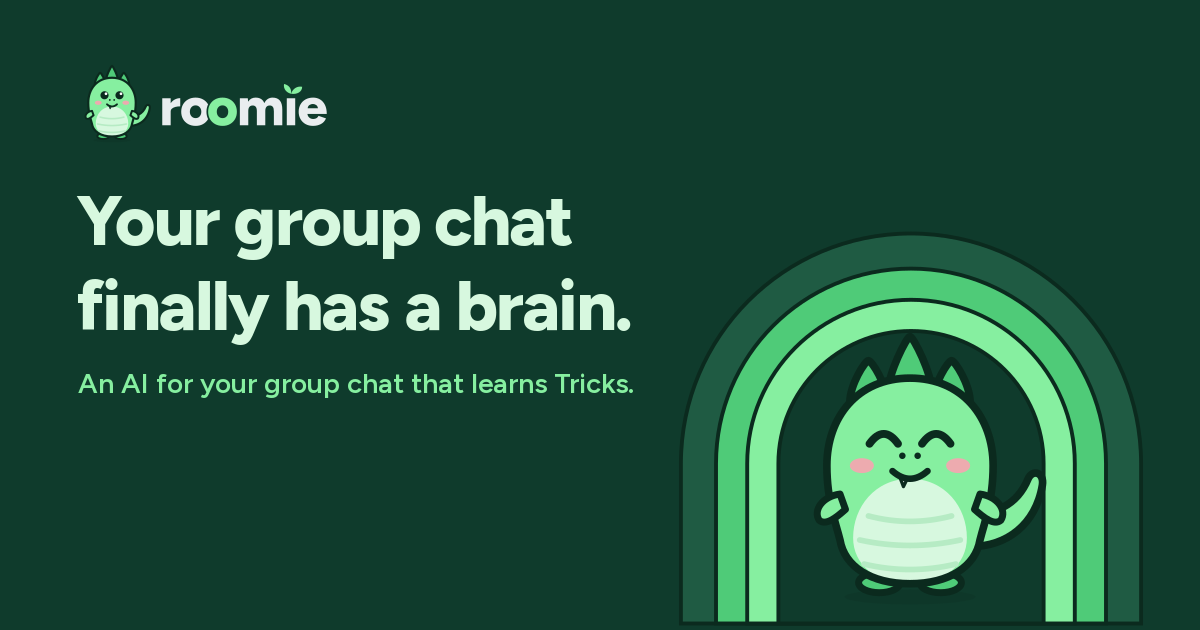
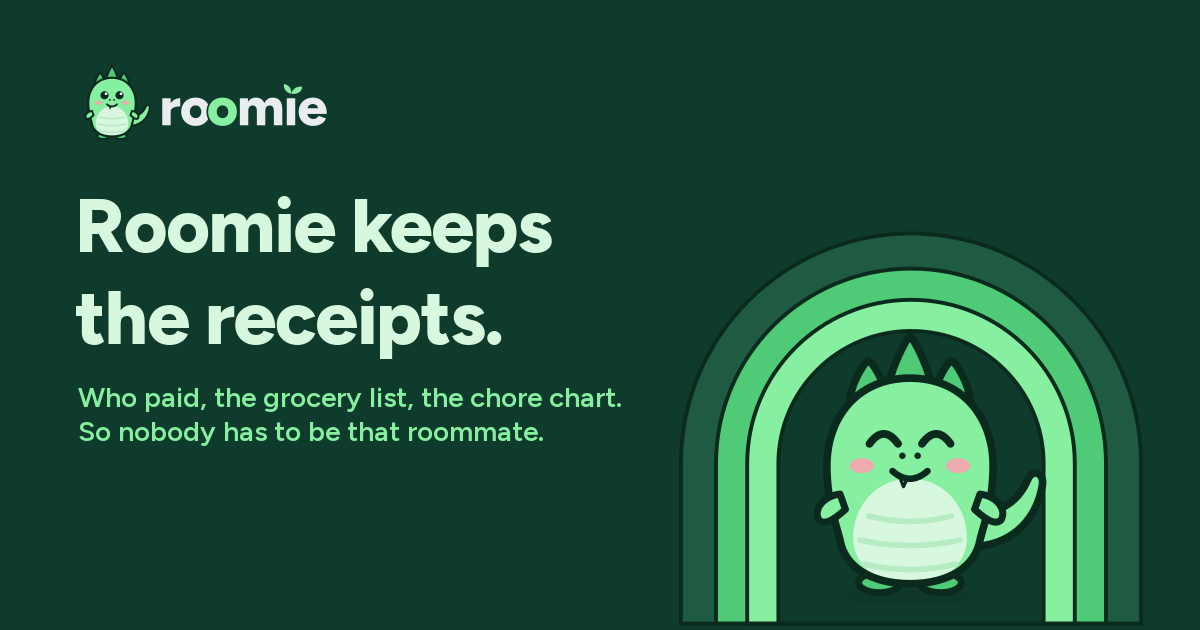
Copy: Roomie keeps the receipts (metadata, share image and text); coming-soon Lease stuff; /help: groupmate not an AI, mostly naps, Teach / Forget, Try it with WhatsApp beta

Changed region(s): [[0.0617, 0.3016, 0.5242, 0.573], [0.0617, 0.573, 0.5242, 0.7238]]

diff --git a/src/app/help/page.tsx b/src/app/help/page.tsx
@@ -9,7 +9,7 @@ import { Button } from "@/components/ui/button"
 import { ToolkitIcon } from "@/components/app/toolkit-icon"
 import { Roomie } from "@/components/roomie/mascot"
 import { ARCHETYPES, ARCHETYPE_IDS } from "@/lib/personality"
-import { GITHUB_URL, TelegramMark, linkClass, telegramAddUrl } from "../_landing/marks"
+import { GITHUB_URL, TelegramMark, WhatsAppMark, linkClass, telegramAddUrl } from "../_landing/marks"
 import { accentOf, builtTricks, comingSoonTricks, taughtBy, teachLine } from "../_landing/tricks"
 
 const TITLE = "How Roomie works"
@@ -55,7 +55,7 @@ export default function HelpPage() {
         <div className="mx-auto flex max-w-3xl items-end justify-between gap-6 px-5 pt-6 pb-10 sm:px-8 sm:pt-10">
           <div className="flex flex-col gap-3">
             <h1 className="m-0 text-[clamp(2.4rem,7vw,3.75rem)] leading-[0.98] font-extrabold tracking-[-0.04em] text-mint">How Roomie works</h1>
-            <p className="m-0 max-w-[40ch] text-base leading-snug text-mint/80 sm:text-lg">Everything a new person in the group needs, on one page.</p>
+            <p className="m-0 max-w-[40ch] text-base leading-snug text-mint/80 sm:text-lg">Roomie keeps the receipts. Here&apos;s everything a new person in the group needs, on one page.</p>
           </div>
           <Roomie mood="happy" size={88} animated className="hidden shrink-0 sm:block" />
         </div>
@@ -75,9 +75,12 @@ export default function HelpPage() {
 
       <main className="mx-auto flex w-full max-w-3xl flex-col gap-16 px-5 py-12 sm:px-8 sm:py-16">
         <Part id="what" title="What Roomie is">
-          <p>Roomie is an AI that joins your group chat. It&apos;s a little dino that becomes the group&apos;s newest member.</p>
-          <p>It knows Tricks: splitting costs, the shared grocery Cart, chores. Teach it more whenever you like.</p>
-          <p>Any group works: roommates, a trip, friends, family, a team, a club.</p>
+          <p>
+            Roomie is the groupmate that handles the shared-living admin: who paid, what you&apos;re out of, whose turn it is. It does the asking and the reminding, so
+            nobody has to be that roommate.
+          </p>
+          <p>It does that with Tricks: Splitting, Groceries, Chores and Upkeep. Teach it more whenever you like.</p>
+          <p>Made for roommates first, and just as handy on a trip. Friends, families, teams and clubs work too.</p>
         </Part>
 
         <Part id="add" title="Add it to a group">
@@ -114,8 +117,8 @@ export default function HelpPage() {
             <li>reply to one of its messages.</li>
           </ul>
           <p>
-            It mostly answers when addressed. Sometimes it chimes in when a message is clearly for it, and it answers voice notes addressed to it. It also posts a short
-            hello once a day, a cheer when someone hits a streak, and a morning nudge when a chore is due.
+            Otherwise it mostly naps. It chimes in only when it&apos;s clearly needed, and it answers voice notes addressed to it. It also posts a short hello once a day, a
+            cheer when someone hits a streak, and a morning nudge when a chore is due.
           </p>
           <p>
             Send <Kbd>/pet</Kbd> and it tells you about its day.
@@ -124,7 +127,8 @@ export default function HelpPage() {
 
         <Part id="tricks" title="Tricks">
           <p>
-            A Trick is something Roomie knows how to do. To teach it one, say <q>{teachLine({ name: "Chores" })}</q>, or switch it on in the dashboard&apos;s Settings (Admins).
+            A Trick is a job Roomie takes off the group&apos;s hands. Tricks snap on like blocks, and each one brings its own page on the dashboard. To teach it one,
+            say <q>{teachLine({ name: "Chores" })}</q>, or tap Teach on the dashboard&apos;s Tricks page (Admins).
           </p>
           <div className="not-prose mt-2 flex flex-col gap-3">
             {builtTricks().map((m) => (
@@ -178,7 +182,7 @@ export default function HelpPage() {
             <dt>Members</dt>
             <dd>Everyone in the group that Roomie knows. Members can open the dashboard and log things.</dd>
             <dt>Admins</dt>
-            <dd>Whoever added Roomie, plus anyone they promote. Admins approve people, teach or drop Tricks, and change the vibe, name and settings.</dd>
+            <dd>Whoever added Roomie, plus anyone they promote. Admins approve people, teach Roomie Tricks or make it forget one, and change the vibe, name and settings.</dd>
             <dt>Pending</dt>
             <dd>
               Someone who joined after Roomie did. Roomie answers them but won&apos;t log anything for them until an Admin approves, with <q>roomie approve Priya</q> or on
@@ -240,13 +244,19 @@ export default function HelpPage() {
         <div className="flex flex-col items-start gap-4 rounded-3xl border bg-card p-6 sm:flex-row sm:items-center sm:justify-between">
           <div className="flex items-center gap-3">
             <Roomie mood="happy" size={52} animated />
-            <p className="type-heading m-0">Ready when your group is.</p>
+            <p className="type-heading m-0">Roomie keeps the receipts. Try it.</p>
           </div>
-          <Button nativeButton={false} render={<a href={addUrl} target="_blank" rel="noopener noreferrer" />}>
-            <TelegramMark />
-            Add to Telegram
-            <span className="sr-only">(opens Telegram in a new tab)</span>
-          </Button>
+          <div className="flex flex-wrap gap-2">
+            <Button nativeButton={false} render={<a href={addUrl} target="_blank" rel="noopener noreferrer" />}>
+              <TelegramMark />
+              Add to Telegram
+              <span className="sr-only">(opens Telegram in a new tab)</span>
+            </Button>
+            <Button variant="secondary" nativeButton={false} render={<Link href="/#whatsapp-beta" />}>
+              <WhatsAppMark />
+              WhatsApp beta
+            </Button>
+          </div>
         </div>
       </main>
 
@@ -342,9 +352,9 @@ const FAQ: { q: string; a: ReactNode; text: string }[] = [
     ),
   },
   {
-    q: "Can I turn a Trick off?",
-    text: "Yes. An Admin says \"roomie, turn off chores\" or switches it off in the dashboard's Settings. What it kept stays, so turning it back on picks up where you left off.",
-    a: <p>Yes. An Admin says <q>roomie, turn off chores</q> or switches it off in Settings. What it kept stays, so turning it back on picks up where you left off.</p>,
+    q: "Can Roomie forget a Trick?",
+    text: "Yes. An Admin says \"roomie, forget chores\" or taps Forget on the dashboard's Tricks page. What it kept stays, so teaching it again picks up where you left off.",
+    a: <p>Yes. An Admin says <q>roomie, forget chores</q> or taps Forget on the dashboard&apos;s Tricks page. What it kept stays, so teaching it again picks up where you left off.</p>,
   },
   {
     q: "Can I use it in more than one group?",

diff --git a/src/app/page.tsx b/src/app/page.tsx
@@ -7,9 +7,9 @@ import { appUrl, isAbsoluteUrl } from "@/lib/urls"
 import { trickVoteCounts } from "@/services/trick-votes"
 import { Landing } from "./_landing/landing"
 
-const TITLE = "Roomie — your group chat finally has a brain"
+const TITLE = "Roomie keeps the receipts"
 const DESCRIPTION =
-  "Roomie is an AI that joins your Telegram or WhatsApp group chat and learns Tricks: splitting costs and receipts, the shared grocery Cart, chores. Every group gets its own dashboard."
+  "Add Roomie to your roommate group chat on Telegram or WhatsApp. It tracks who paid, keeps the grocery list, runs the chore chart, and does the asking, so nobody has to be that roommate."
 
 export function generateMetadata(): Metadata {
   const base = appUrl()
@@ -24,7 +24,7 @@ export function generateMetadata(): Metadata {
       title: TITLE,
       description: DESCRIPTION,
       url: "/",
-      images: [{ url: "/landing/og.png", width: 1200, height: 630, alt: "Your group chat finally has a brain. Roomie, the dino, in its doorway." }],
+      images: [{ url: "/landing/og.png", width: 1200, height: 630, alt: "Roomie keeps the receipts. Roomie, the dino, in its doorway." }],
     },
     twitter: { card: "summary_large_image", title: TITLE, description: DESCRIPTION, images: ["/landing/og.png"] },
   }

diff --git a/src/toolkits/coming-soon.ts b/src/toolkits/coming-soon.ts
@@ -58,10 +58,10 @@ export const COMING_SOON = [
   defineManifest({
     ...soon,
     id: "household-admin",
-    name: "Household admin",
+    name: "Lease stuff",
     description: "Leases, utilities and renewals: whose name is on what, and when it's due.",
-    summary: "Leases, utilities and renewals: whose name is on what, and when.",
-    longDescription: "Roomie keeps the boring paperwork straight: who holds the internet account, when the lease renews, which bills are on autopay. It nudges the right person before anything lapses.",
+    summary: "Its own inbox for the leasing office: what matters, reminders, replies.",
+    longDescription: "Point your leasing office at Roomie's address. It tells the group what actually matters, sets reminders for notices, and emails them for you (it asks first).",
     icon: "ClipboardList",
     category: "home",
     tags: ["lease", "utilities", "renewals", "accounts"],

diff --git a/scripts/og-image.ts b/scripts/og-image.ts
@@ -49,8 +49,8 @@ async function main() {
   </svg>`;
 
   const [bold, semi] = await Promise.all([font(800), font(600)]);
-  const headline = await text(`<span foreground="${MINT}" letter_spacing="-1600">Your group chat finally has a brain.</span>`, bold, "Figtree ExtraBold 70", 600);
-  const sub = await text(`<span foreground="${SPROUT}">An AI for your group chat that learns Tricks.</span>`, semi, "Figtree SemiBold 28", 640);
+  const headline = await text(`<span foreground="${MINT}" letter_spacing="-1600">Roomie keeps the receipts.</span>`, bold, "Figtree ExtraBold 76", 560);
+  const sub = await text(`<span foreground="${SPROUT}">Who paid, the grocery list, the chore chart.\nSo nobody has to be that roommate.</span>`, semi, "Figtree SemiBold 28", 620);
   const headMeta = await sharp(headline).metadata();
 
   await sharp(Buffer.from(base))

diff --git a/src/app/_landing/marks.tsx b/src/app/_landing/marks.tsx
@@ -12,7 +12,7 @@ export const telegramAddUrl = (username = process.env.TELEGRAM_BOT_USERNAME?.tri
 export const publicUrl = () => (isAbsoluteUrl(appUrl()) ? appUrl() : PUBLIC_URL_FALLBACK)
 
 /** What a share says, from the person sending it to their group. */
-export const SHARE_TEXT = "Adding this to our group chat. It remembers who paid 🦖"
+export const SHARE_TEXT = "Adding this to our group chat. It keeps the receipts 🦖"
 
 export const shareLinks = (url = publicUrl(), text = SHARE_TEXT) => ({
   url,

diff --git a/src/app/layout.tsx b/src/app/layout.tsx
@@ -17,7 +17,7 @@ const figtree = Figtree({
 
 export const metadata: Metadata = {
   title: { default: "Roomie", template: "%s | Roomie" },
-  description: "Your group's money, groceries and chores, kept by the groupmate in your WhatsApp chat.",
+  description: "Roomie keeps the receipts: who paid, what you're out of and whose turn it is, kept by the groupmate in your roommate group chat.",
   icons: { icon: "/brand/roomie-icon.svg" },
 }
 
